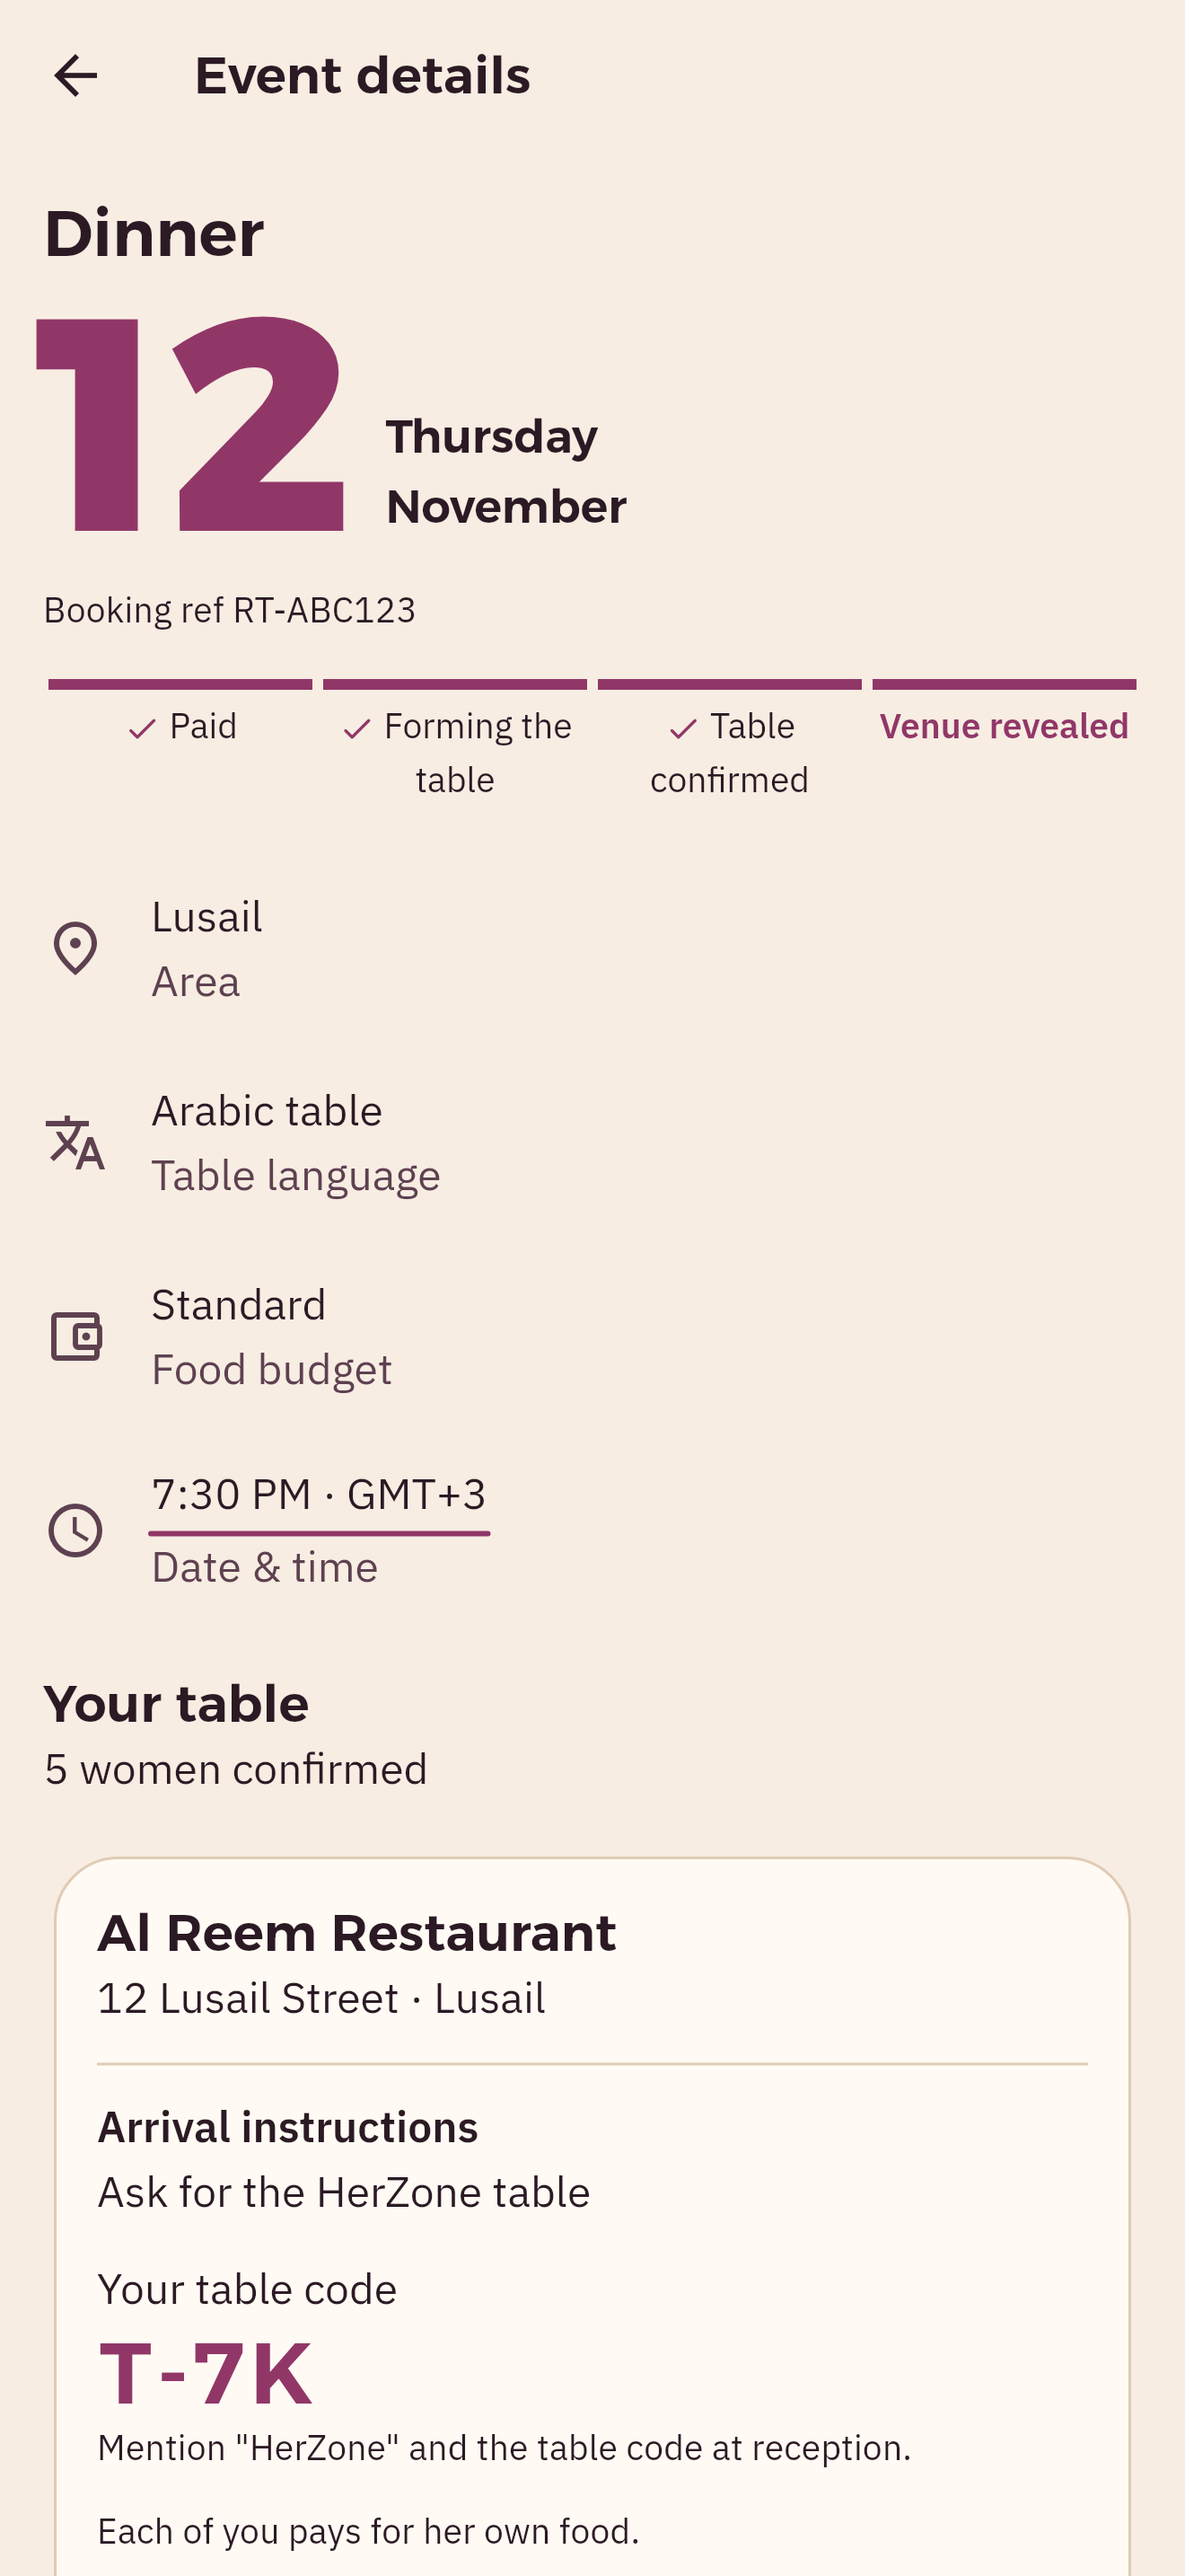
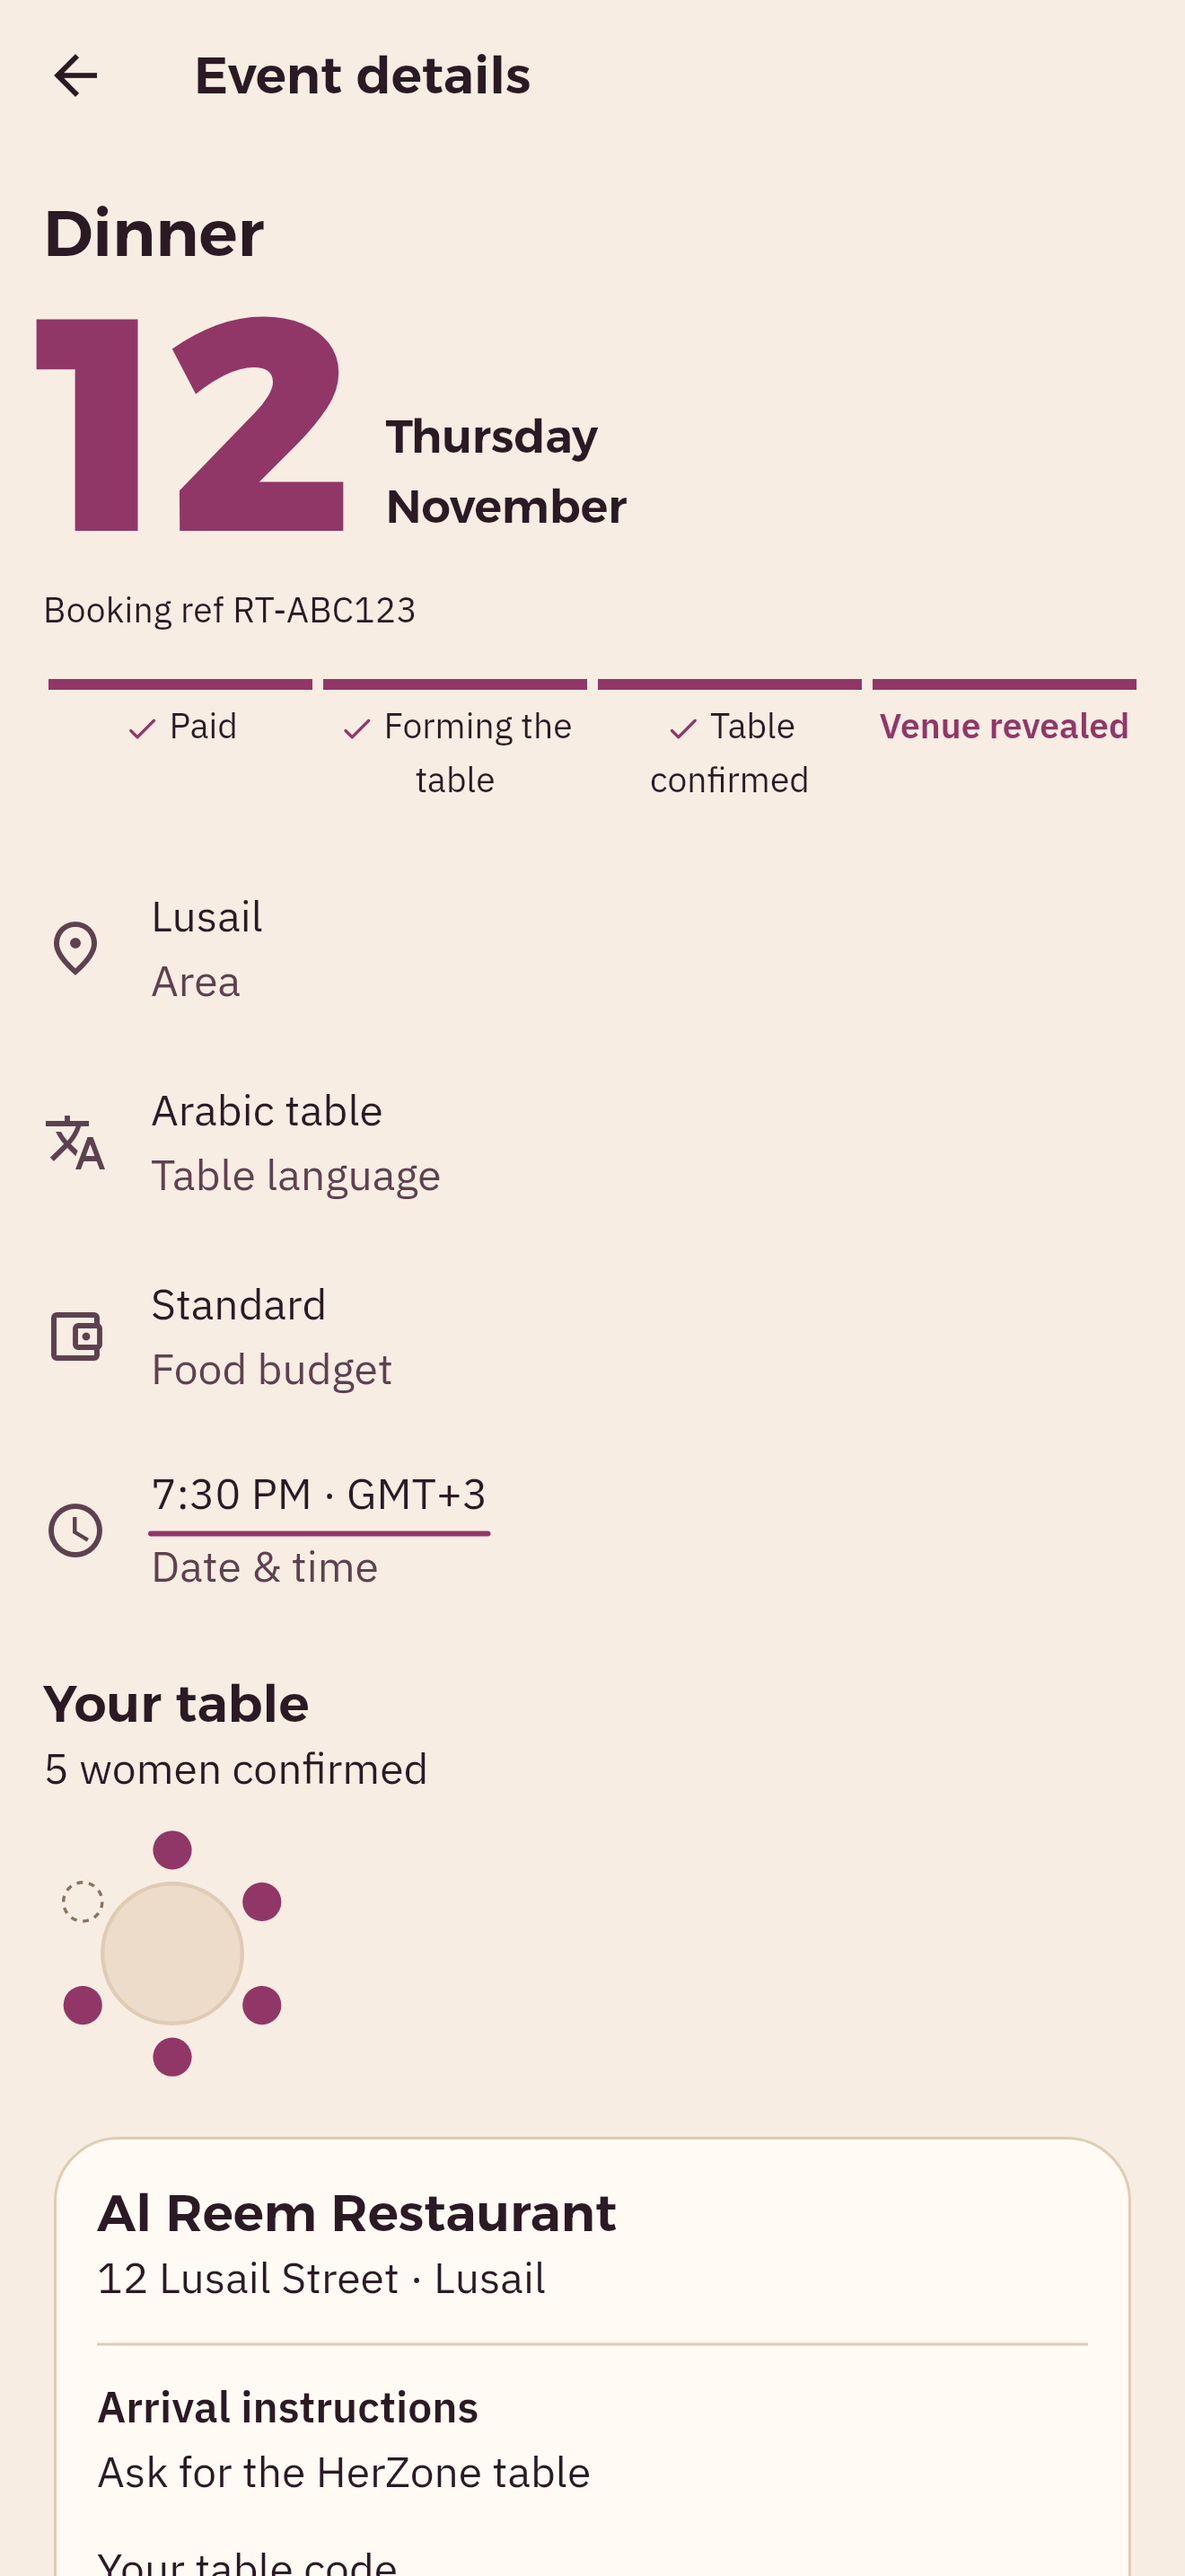
The details' table drawing: the confirmed seats pop in one after another the first time it appears
Claude-Session: https://claude.ai/code/session_01FEXgDqNsHx3oP1pnWG1BkE

Changed region(s): [[0.0311, 0.7137, 0.528, 1.0], [0.6833, 0.931, 0.7455, 0.962], [0.5591, 0.931, 0.5902, 0.962]]

diff --git a/qatar/app/test/motion_app_test.dart b/qatar/app/test/motion_app_test.dart
@@ -1,0 +1,145 @@
+// The motion pass in the app (19-principle brief): the seats that pop in one after another on the details' table
+// drawing (the peak of the wait), and the doubled amount that pulses once on the «+1» review (the secondary action).
+// Each is checked for the exact count, for playing once, and for standing still under reduced motion.
+import 'package:flutter/material.dart';
+import 'package:flutter_test/flutter_test.dart';
+import 'package:herzone/app/app.dart';
+import 'package:herzone/core/token_store.dart';
+import 'package:herzone/data/onboarding.dart';
+import 'package:herzone/data/trip_store.dart';
+import 'package:herzone/design/herzone_tokens.dart';
+import 'package:herzone/ui/common/motion.dart' show Pulse;
+import 'package:herzone/ui/common/table_art.dart';
+
+import 'meetups_test.dart' as m;
+import 'plus_one_test.dart' as p;
+import 'rounds_test.dart' show reduceMotion;
+import 'sign_in_flow_test.dart' show config;
+
+Widget host(Widget child, {bool still = false}) => MaterialApp(
+      home: MediaQuery(data: MediaQueryData(disableAnimations: still), child: Scaffold(body: Center(child: child))),
+    );
+
+/// The per-seat pop scales the drawing's painter holds mid-animation; null when the drawing is static.
+List<double>? pops(WidgetTester tester) =>
+    ((tester.widget<CustomPaint>(find.descendant(of: find.byType(TableArt), matching: find.byType(CustomPaint))).painter) as dynamic).pops as List<double>?;
+
+void main() {
+  setUp(TableArt.resetPlayed);
+
+  testWidgets('the confirmed seats pop in one after another: exactly that many, 60 ms apart, each over HzMotion.fast', (tester) async {
+    await tester.pumpWidget(host(const TableArt(filled: 3, popIn: true)));
+    expect(pops(tester), [0, 0, 0], reason: 'exactly 3 of the 6 seats animate, from nothing');
+    await tester.pump(const Duration(milliseconds: 120));
+    expect(pops(tester)![0], 1, reason: 'the first seat has landed after HzMotion.fast');
+    expect(pops(tester)![1], greaterThan(0), reason: 'the second is mid-pop (it started 60 ms later)');
+    expect(pops(tester)![2], 0, reason: 'the third has not started (120 ms in)');
+    await tester.pumpAndSettle();
+    expect(pops(tester), [1, 1, 1], reason: 'all settled at their size');
+  });
+
+  testWidgets('a forming, all-dashed table never pops, and without popIn the drawing is simply drawn', (tester) async {
+    await tester.pumpWidget(host(const TableArt(filled: 0, popIn: true)));
+    expect(pops(tester), isNull);
+    await tester.pumpAndSettle();
+    await tester.pumpWidget(host(const TableArt(filled: 4)));
+    expect(pops(tester), isNull);
+  });
+
+  testWidgets('reduced motion: the drawing is simply there, complete', (tester) async {
+    await tester.pumpWidget(host(const TableArt(filled: 3, popIn: true), still: true));
+    expect(pops(tester), isNull, reason: 'static: every seat at full size from the first frame');
+    await tester.pumpAndSettle();
+  });
+
+  testWidgets('with once, the pop plays on the first appearance only in this run', (tester) async {
+    await tester.pumpWidget(host(const TableArt(filled: 2, popIn: true, once: 'x')));
+    expect(pops(tester), isNotNull);
+    await tester.pumpAndSettle();
+    await tester.pumpWidget(const SizedBox());
+    await tester.pumpWidget(host(const TableArt(key: Key('again'), filled: 2, popIn: true, once: 'x')));
+    expect(pops(tester), isNull, reason: 'seen already: shown in place at once');
+    // left halfway, it may play again: only a run to the end marks it seen
+    await tester.pumpWidget(const SizedBox());
+    await tester.pumpWidget(host(const TableArt(key: Key('other'), filled: 2, popIn: true, once: 'y')));
+    await tester.pump(const Duration(milliseconds: 30));
+    await tester.pumpWidget(const SizedBox());
+    await tester.pumpWidget(host(const TableArt(key: Key('other2'), filled: 2, popIn: true, once: 'y')));
+    expect(pops(tester), isNotNull);
+    await tester.pumpAndSettle();
+  });
+
+  testWidgets('details: her table\'s drawing shows the confirmed seats and pops them in once', (tester) async {
+    m.tallScreen(tester);
+    // the meetups fake: a revealed booking with confirmed_count 5
+    await tester.pumpWidget(_detailsApp());
+    await tester.pumpAndSettle();
+    await tester.tap(find.byKey(const Key('session-s1')));
+    await tester.pumpAndSettle();
+    final art = tester.widget<TableArt>(find.byKey(const Key('details-table')));
+    expect(art.filled, 5, reason: 'exactly the confirmed count');
+    expect(art.popIn, isTrue);
+    expect(pops(tester), [1, 1, 1, 1, 1], reason: 'played to the end while the screen settled');
+  });
+
+  testWidgets('details under reduced motion: the drawing stands still and complete', (tester) async {
+    m.tallScreen(tester);
+    reduceMotion(tester);
+    await tester.pumpWidget(_detailsApp());
+    await tester.pumpAndSettle();
+    await tester.tap(find.byKey(const Key('session-s1')));
+    await tester.pumpAndSettle();
+    expect(find.byKey(const Key('details-table')), findsOneWidget);
+    expect(pops(tester), isNull);
+  });
+
+  testWidgets('«+1» review: the doubled amount pulses once (1 to 1.03 and back, spring, HzMotion.base) and no more', (tester) async {
+    final f = p.Fake();
+    await p.openBook(tester, f);
+    await p.withGuest(tester, 'سارة');
+    await tester.tap(find.byKey(const Key('hold')));
+    await tester.pumpAndSettle();
+    final pulse = find.byKey(const Key('amount-pulse'));
+    expect(pulse, findsOneWidget);
+    expect(find.descendant(of: pulse, matching: find.byKey(const Key('amount'))), findsOneWidget);
+    final w = tester.widget<Pulse>(pulse);
+    expect(w.duration, HzMotion.base);
+    expect(w.curve, HzMotion.spring);
+    double scale() => tester.widget<ScaleTransition>(find.descendant(of: pulse, matching: find.byType(ScaleTransition))).scale.value;
+    expect(scale(), 1, reason: 'the pulse has played once and come to rest');
+    await tester.pump(const Duration(milliseconds: 300));
+    expect(scale(), 1, reason: 'once: it does not repeat');
+    expect(tester.hasRunningAnimations, isFalse);
+  });
+
+  testWidgets('«+1» review mid-pulse: the amount rises above 1, then returns', (tester) async {
+    final f = p.Fake();
+    await p.openBook(tester, f);
+    await p.withGuest(tester, 'سارة');
+    await tester.pumpAndSettle();
+    await tester.tap(find.byKey(const Key('hold')));
+    // let the hold's answer arrive and the review build, then sample the pulse at its crest
+    for (var i = 0; i < 10 && find.byKey(const Key('amount-pulse')).evaluate().isEmpty; i++) {
+      await tester.pump(const Duration(milliseconds: 10));
+    }
+    final pulse = find.byKey(const Key('amount-pulse'));
+    expect(pulse, findsOneWidget);
+    double scale() => tester.widget<ScaleTransition>(find.descendant(of: pulse, matching: find.byType(ScaleTransition))).scale.value;
+    await tester.pump(const Duration(milliseconds: 100));
+    expect(scale(), greaterThan(1), reason: 'the crest of the pulse');
+    await tester.pumpAndSettle();
+    expect(scale(), 1);
+  });
+
+  testWidgets('booked alone: the amount does not pulse', (tester) async {
+    final f = p.Fake();
+    await p.openBook(tester, f);
+    await tester.tap(find.byKey(const Key('hold')));
+    await tester.pumpAndSettle();
+    expect(find.byKey(const Key('amount')), findsOneWidget);
+    expect(find.byKey(const Key('amount-pulse')), findsNothing);
+  });
+}
+
+Widget _detailsApp() => HerZoneApp(
+    config: config, tokens: MemoryTokenStore()..token = 'rt_1', trips: MemoryTripStore(), quizStore: QuizStore.memory(), httpClientFactory: () => m.api(online: () => true));

diff --git a/qatar/app/lib/ui/common/table_art.dart b/qatar/app/lib/ui/common/table_art.dart
@@ -1,5 +1,6 @@
 import 'dart:math' as math;
 
+import 'package:flutter/foundation.dart' show listEquals;
 import 'package:flutter/material.dart';
 
 import '../../design/herzone_tokens.dart';
@@ -8,19 +9,78 @@ import '../theme.dart';
 
 /// The HerZone table drawing (same as the web's welcome): a round table with [seats] chairs, [filled] of them taken
 /// (solid seat colour) and the rest open (dashed). It stands in for photos: members are never pictured.
-class TableArt extends StatelessWidget {
-  const TableArt({super.key, this.seats = 6, this.filled = 4, this.size = 200});
+///
+/// With [popIn], the taken seats pop in one after another the first time the drawing appears: each grows from nothing
+/// with HzMotion.spring over HzMotion.fast, the next starting 60 ms (two staggers) later — the peak moment of a table
+/// that is really filling. A table with no one confirmed (all dashed) never pops, and with reduced motion the drawing
+/// is simply there, complete.
+class TableArt extends StatefulWidget {
+  const TableArt({super.key, this.seats = 6, this.filled = 4, this.size = 200, this.popIn = false, this.once});
   final int seats;
   final int filled;
   final double size;
+  final bool popIn;
+
+  /// With [once], the pop-in named so plays on its first appearance in this run of the app only.
+  final String? once;
+
+  /// Pop-ins that have played in this run of the app.
+  static final Set<String> _played = {};
+
+  /// Tests start each run afresh.
+  @visibleForTesting
+  static void resetPlayed() => _played.clear();
+
+  @override
+  State<TableArt> createState() => _TableArtState();
+}
+
+class _TableArtState extends State<TableArt> with SingleTickerProviderStateMixin {
+  AnimationController? _pop;
+  bool _decided = false;
+
+  @override
+  void didChangeDependencies() {
+    super.didChangeDependencies();
+    if (_decided) return;
+    _decided = true;
+    final still = MediaQuery.maybeDisableAnimationsOf(context) ?? false;
+    final once = widget.once;
+    final n = widget.filled.clamp(0, widget.seats);
+    if (!widget.popIn || n == 0 || still || (once != null && TableArt._played.contains(once))) return;
+    _pop = AnimationController(vsync: this, duration: HzMotion.fast + HzMotion.stagger * 2 * (n - 1))
+      ..forward().whenComplete(() {
+        if (once != null) TableArt._played.add(once);
+      });
+  }
+
+  @override
+  void dispose() {
+    _pop?.dispose();
+    super.dispose();
+  }
+
+  /// One scale per taken seat: seat i grows over HzMotion.fast from 60 ms after seat i-1 (the spring lets it pass 1 and
+  /// settle). Null when nothing pops: the drawing is static.
+  List<double>? _pops() {
+    final c = _pop;
+    if (c == null) return null;
+    final n = widget.filled.clamp(0, widget.seats);
+    final total = c.duration!.inMilliseconds;
+    final gap = (HzMotion.stagger * 2).inMilliseconds, run = HzMotion.fast.inMilliseconds;
+    return [for (var i = 0; i < n; i++) Interval(i * gap / total, (i * gap + run) / total, curve: HzMotion.spring).transform(c.value)];
+  }
 
   @override
   Widget build(BuildContext context) {
     final c = hzColors(context);
+    Widget art(List<double>? pops) => CustomPaint(
+        painter: _TablePainter(seats: widget.seats, filled: widget.filled, table: c.surfaceSunken, rim: c.border, seat: c.seat, open: c.borderStrong, pops: pops));
+    final pop = _pop;
     return ExcludeSemantics(
       child: SizedBox.square(
-        dimension: size,
-        child: CustomPaint(painter: _TablePainter(seats: seats, filled: filled, table: c.surfaceSunken, rim: c.border, seat: c.seat, open: c.borderStrong)),
+        dimension: widget.size,
+        child: pop == null ? art(null) : AnimatedBuilder(animation: pop, builder: (context, _) => art(_pops())),
       ),
     );
   }
@@ -79,9 +139,12 @@ void _dashedCircle(Canvas canvas, Offset c, double r, Paint paint) {
 }
 
 class _TablePainter extends CustomPainter {
-  _TablePainter({required this.seats, required this.filled, required this.table, required this.rim, required this.seat, required this.open});
+  _TablePainter({required this.seats, required this.filled, required this.table, required this.rim, required this.seat, required this.open, this.pops});
   final int seats, filled;
   final Color table, rim, seat, open;
+
+  /// Mid pop-in: the scale of each taken seat, in seat order; null once (or while) the drawing is static.
+  final List<double>? pops;
 
   @override
   void paint(Canvas canvas, Size size) {
@@ -95,7 +158,8 @@ class _TablePainter extends CustomPainter {
       final a = -math.pi / 2 + i * 2 * math.pi / seats;
       final p = center + Offset(math.cos(a), math.sin(a)) * orbit;
       if (i < filled || i == seats - 1 && filled == seats) {
-        canvas.drawCircle(p, seatR, Paint()..color = seat);
+        final scale = pops == null || i >= pops!.length ? 1.0 : pops![i];
+        if (scale > 0) canvas.drawCircle(p, seatR * scale, Paint()..color = seat);
       } else {
         _dashedCircle(canvas, p, seatR, Paint()..color = open..style = PaintingStyle.stroke..strokeWidth = s * 0.012);
       }
@@ -104,5 +168,5 @@ class _TablePainter extends CustomPainter {
 
   @override
   bool shouldRepaint(_TablePainter old) =>
-      old.seats != seats || old.filled != filled || old.table != table || old.seat != seat || old.open != open || old.rim != rim;
+      old.seats != seats || old.filled != filled || old.table != table || old.seat != seat || old.open != open || old.rim != rim || !listEquals(old.pops, pops);
 }

diff --git a/qatar/app/lib/ui/meetups/event_details_screen.dart b/qatar/app/lib/ui/meetups/event_details_screen.dart
@@ -25,6 +25,7 @@ import '../common/busy_label.dart';
 import '../common/motion.dart' show Pulse, RiseIn;
 import '../common/press.dart';
 import '../common/sound_on_show.dart';
+import '../common/table_art.dart';
 import '../../core/sounds.dart';
 
 /// One meetup. The server decides what is visible when (venue after the reveal, names on the day); this screen shows
@@ -148,6 +149,13 @@ class _EventDetailsScreenState extends State<EventDetailsScreen> {
                 const SizedBox(height: HzSpace.s4),
                 Text(t.yourTable, style: tt.titleLarge),
                 Text(t.confirmedCount(d.confirmedCount!)),
+                // her table as the drawing: the confirmed seats pop in one after another the first time it appears
+                // (the peak of the wait); a forming, all-dashed table and reduced motion show it still and complete
+                const SizedBox(height: HzSpace.s2),
+                Align(
+                  alignment: AlignmentDirectional.centerStart,
+                  child: TableArt(key: const Key('details-table'), filled: d.confirmedCount!, size: 96, popIn: true, once: 'details-table-$bookingId'),
+                ),
                 if (d.tablemates.isNotEmpty) Text('${t.tablemates}: ${d.tablemates.join('، ')}'),
                 // table opener (owner, 15 Nov): an approved conversation question for the shared themes; the line is the question
                 if (d.opener != null) ...[
@@ -372,7 +380,7 @@ class _DrawnUnderline extends StatefulWidget {
 }
 
 class _DrawnUnderlineState extends State<_DrawnUnderline> with SingleTickerProviderStateMixin {
-  late final AnimationController _draw = AnimationController(vsync: this, duration: const Duration(milliseconds: 600));
+  late final AnimationController _draw = AnimationController(vsync: this, duration: HzMotion.slow);
   ScrollPosition? _position;
 
   @override
